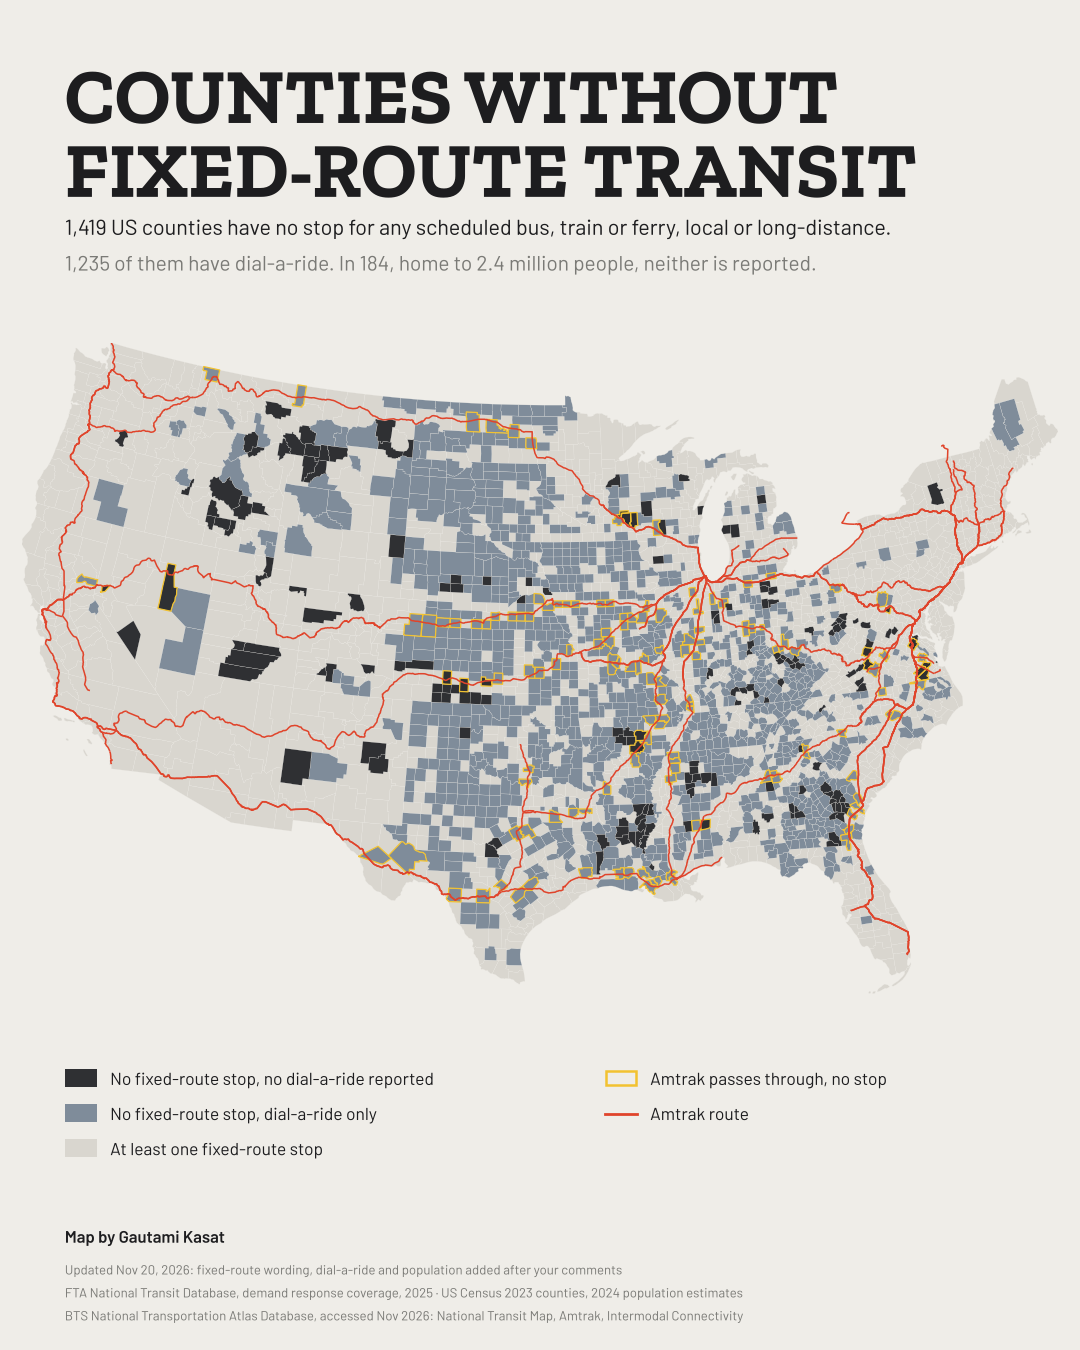
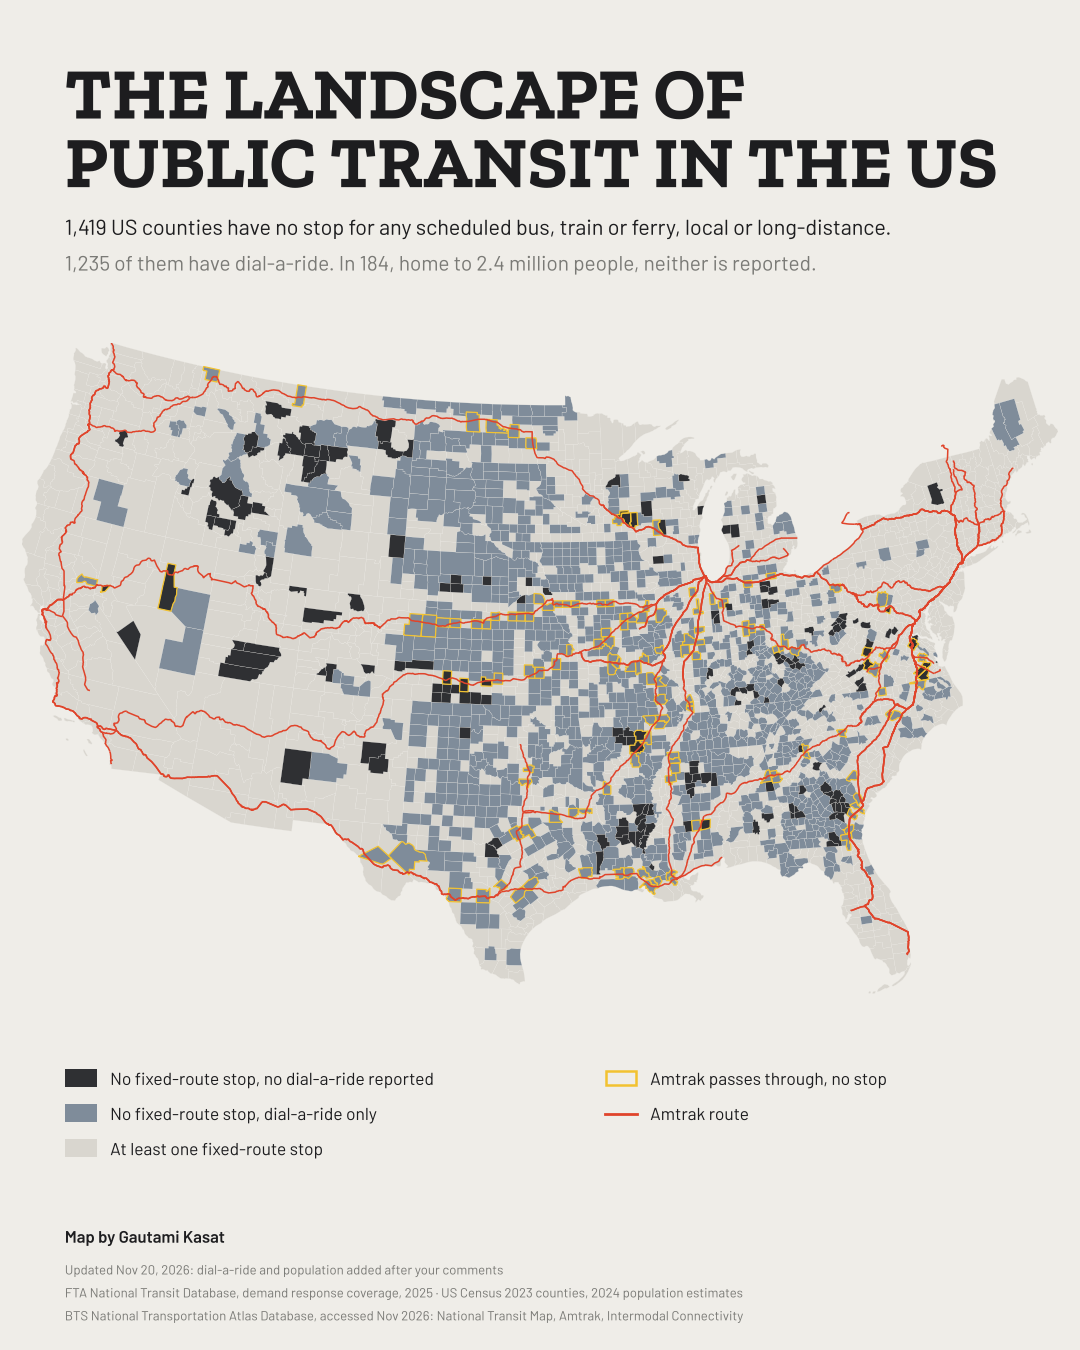
Day 18: retitle to The Landscape of Public Transit in the US
Claude-Session: https://claude.ai/code/session_016f3vJy45cJfbachEju2CvB

Changed region(s): [[0.0611, 0.0311, 0.9167, 0.1556], [0.275, 0.9333, 0.4889, 0.9644], [0.1833, 0.9333, 0.2139, 0.9644]]

diff --git a/output/day18_null-road-only-counties.html b/output/day18_null-road-only-counties.html
@@ -1,6 +1,6 @@
 <!DOCTYPE html><html lang="en"><head><meta charset="utf-8">
 <meta name="viewport" content="width=device-width, initial-scale=1">
-<title>Counties Without Fixed-Route Transit · Gautami Kasat</title>
+<title>The Landscape of Public Transit in the US · Gautami Kasat</title>
 <link href="https://unpkg.com/maplibre-gl@4.7.1/dist/maplibre-gl.css" rel="stylesheet">
 <script src="https://unpkg.com/maplibre-gl@4.7.1/dist/maplibre-gl.js"></script>
 <link href="https://fonts.googleapis.com/css2?family=Zilla+Slab:wght@700&family=Barlow:wght@400;600&display=swap" rel="stylesheet">
@@ -46,7 +46,7 @@
 </style></head><body>
 <div id="map"></div>
 <div class="panel">
-  <h1>Counties Without <span class="nw">Fixed-Route</span> Transit</h1>
+  <h1>The Landscape of Public Transit in the US</h1>
   <div class="big">1,419</div>
   <div class="bigl">of 3,109 counties in the Lower 48 have no stop for any scheduled bus, train or ferry</div>
   <div class="tabs"><button id="t-access" class="on">Transit</button><button id="t-density">People per sq mi</button></div>
@@ -65,8 +65,8 @@
   <p class="stat"><b>29.3 million</b> people live in counties with no fixed-route stop. <b>2.4 million</b>
     of them live where no dial-a-ride is reported either. In 1,040 of the 1,235 dial-a-ride-only counties, at least
     one service is open to anyone.</p>
-  <p class="upd"><b>Updated Nov 20, 2026.</b> Your comments taught me a lot, so the title now says fixed-route, and dial-a-ride
-    and population are new.</p>
+  <p class="upd"><b>Updated Nov 20, 2026.</b> Your comments taught me a lot, so dial-a-ride and population
+    are new, and the map now says clearly which counties lack fixed-route service.</p>
   <p class="hint">Hover a county for details</p>
   <details><summary>How this is counted</summary>
     <p><b>Fixed-route:</b> at least one stop on a scheduled local or regional bus, light rail, subway or commuter rail route

diff --git a/output/index.html b/output/index.html
@@ -102,7 +102,7 @@
       <a class="card city" data-study="" href="day18_null-road-only-counties.html">
         <img src="../png_thumbnail/day18_null-road-only-counties.png" alt="">
         <div class="chip">Day 18 · NULL · interactive</div>
-        <h2>Counties Without Fixed-Route Transit</h2>
+        <h2>The Landscape of Public Transit in the US</h2>
         <p>1,419 US counties with no fixed-route bus, train or ferry stop; 1,235 have dial-a-ride, 184 report neither</p>
         <div class="meta">City Senses · Python + MapLibre</div>
       </a>

diff --git a/captions/day18_null-road-only-counties.md b/captions/day18_null-road-only-counties.md
@@ -2,7 +2,7 @@
 
 | | |
 |---|---|
-| Title | Counties Without Fixed-Route Transit (revised Nov 20, 2026) |
+| Title | The Landscape of Public Transit in the US (revised Nov 20, 2026; first posted as Counties Without Public Transit) |
 | Series | City Senses |
 | Study | (none yet) |
 | Interactive | yes |
